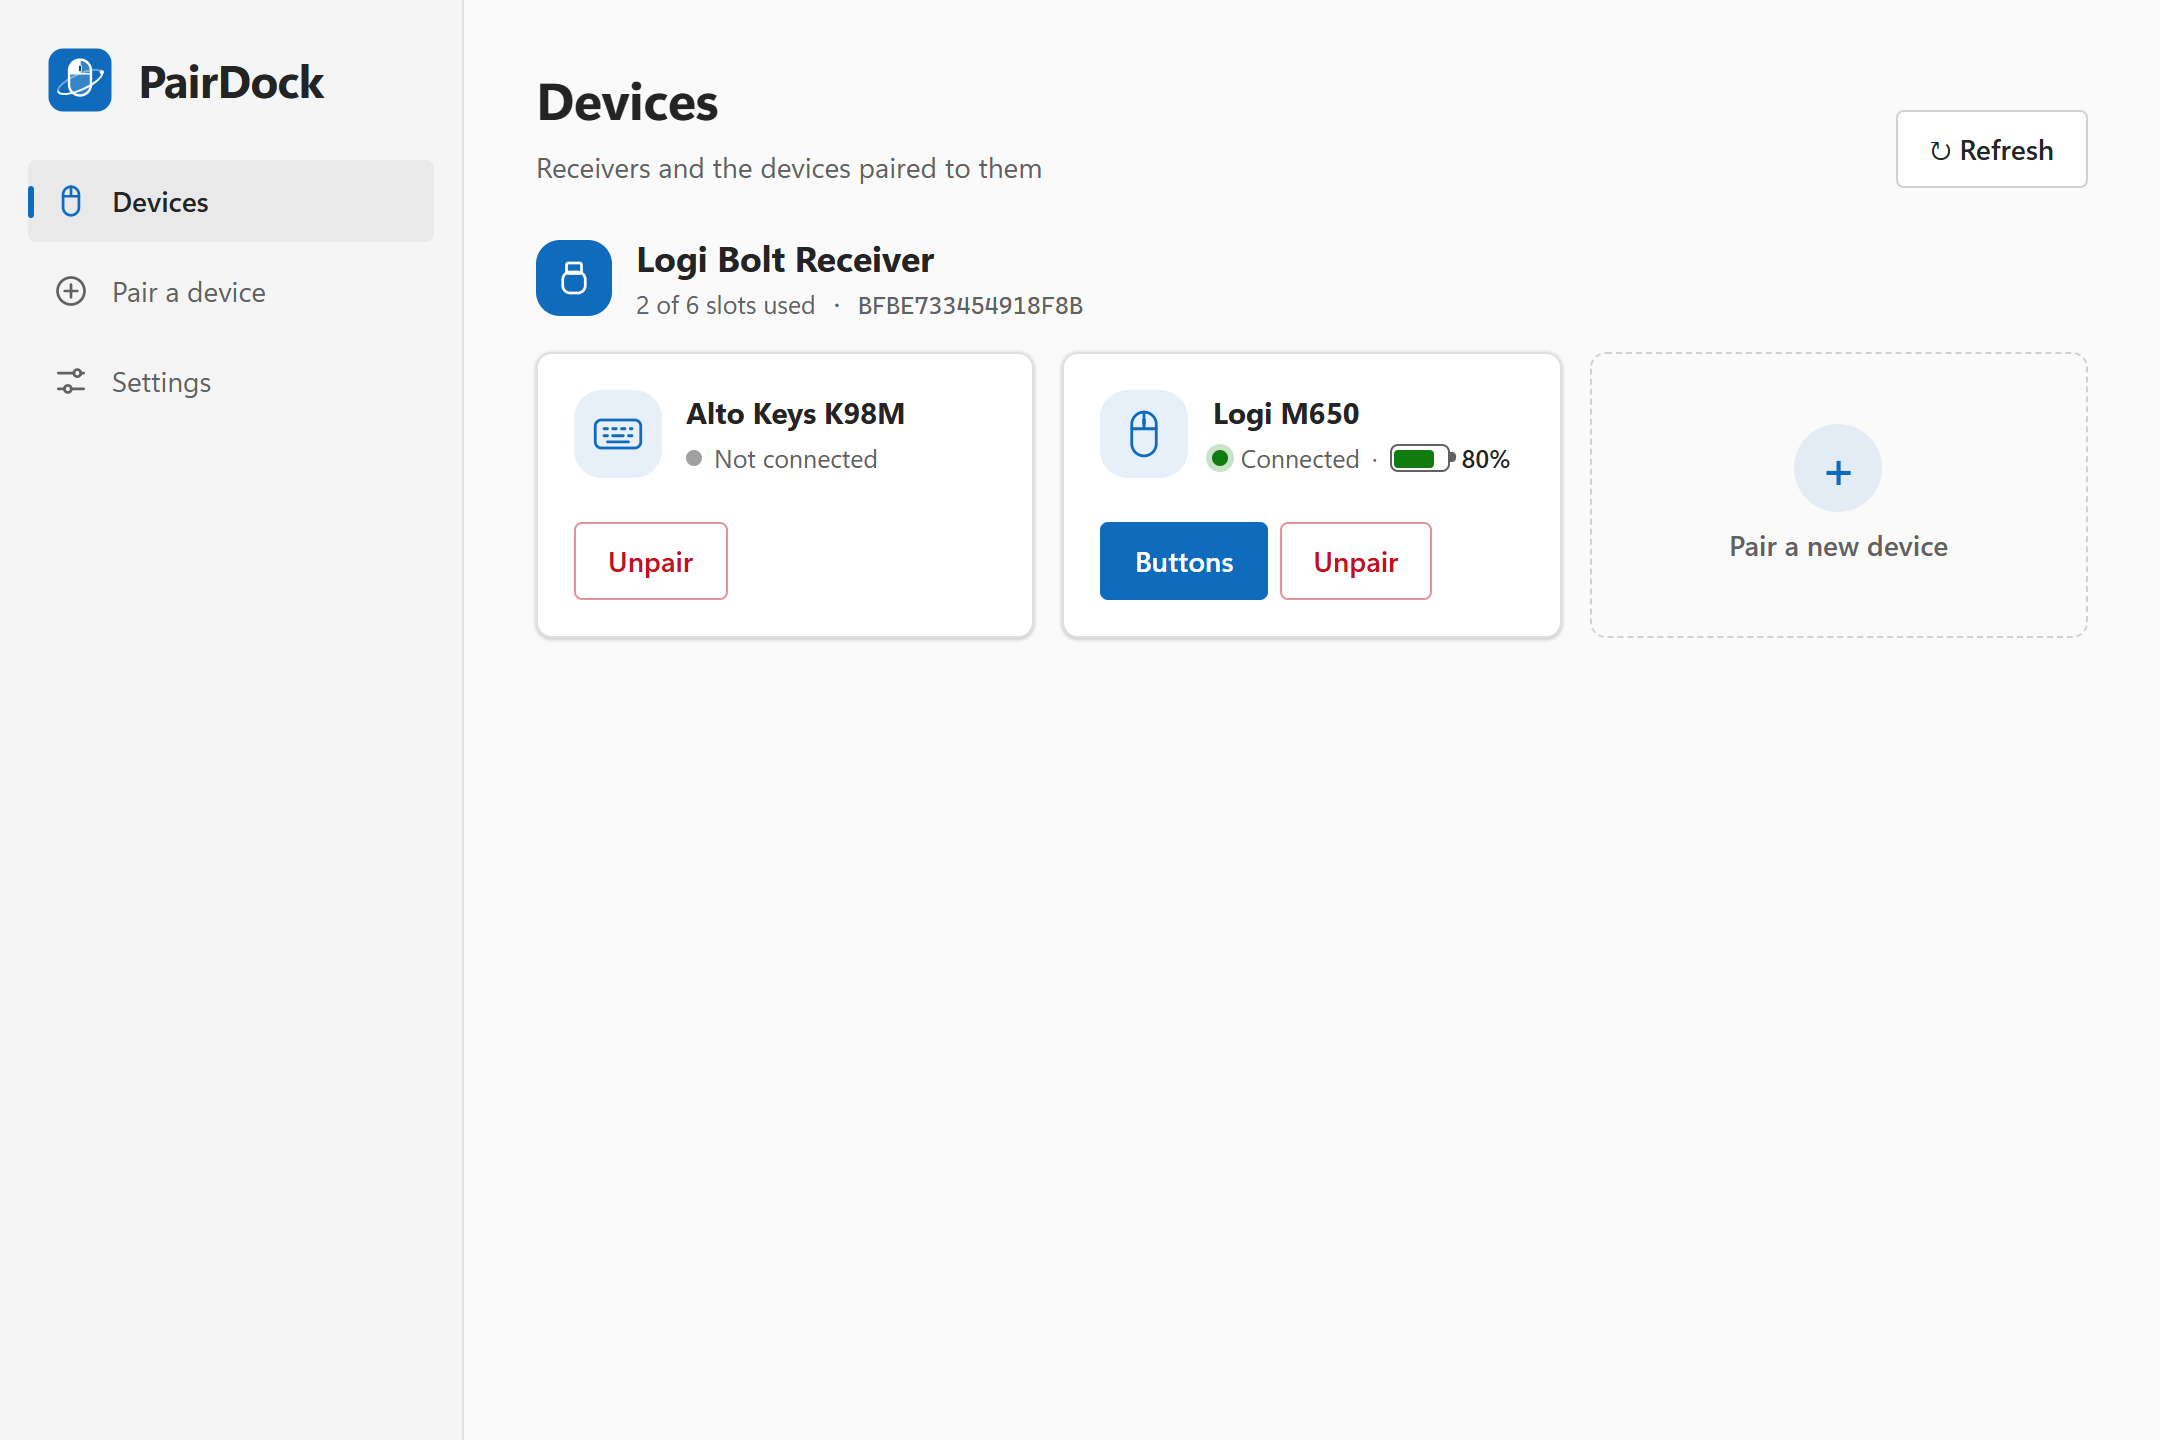
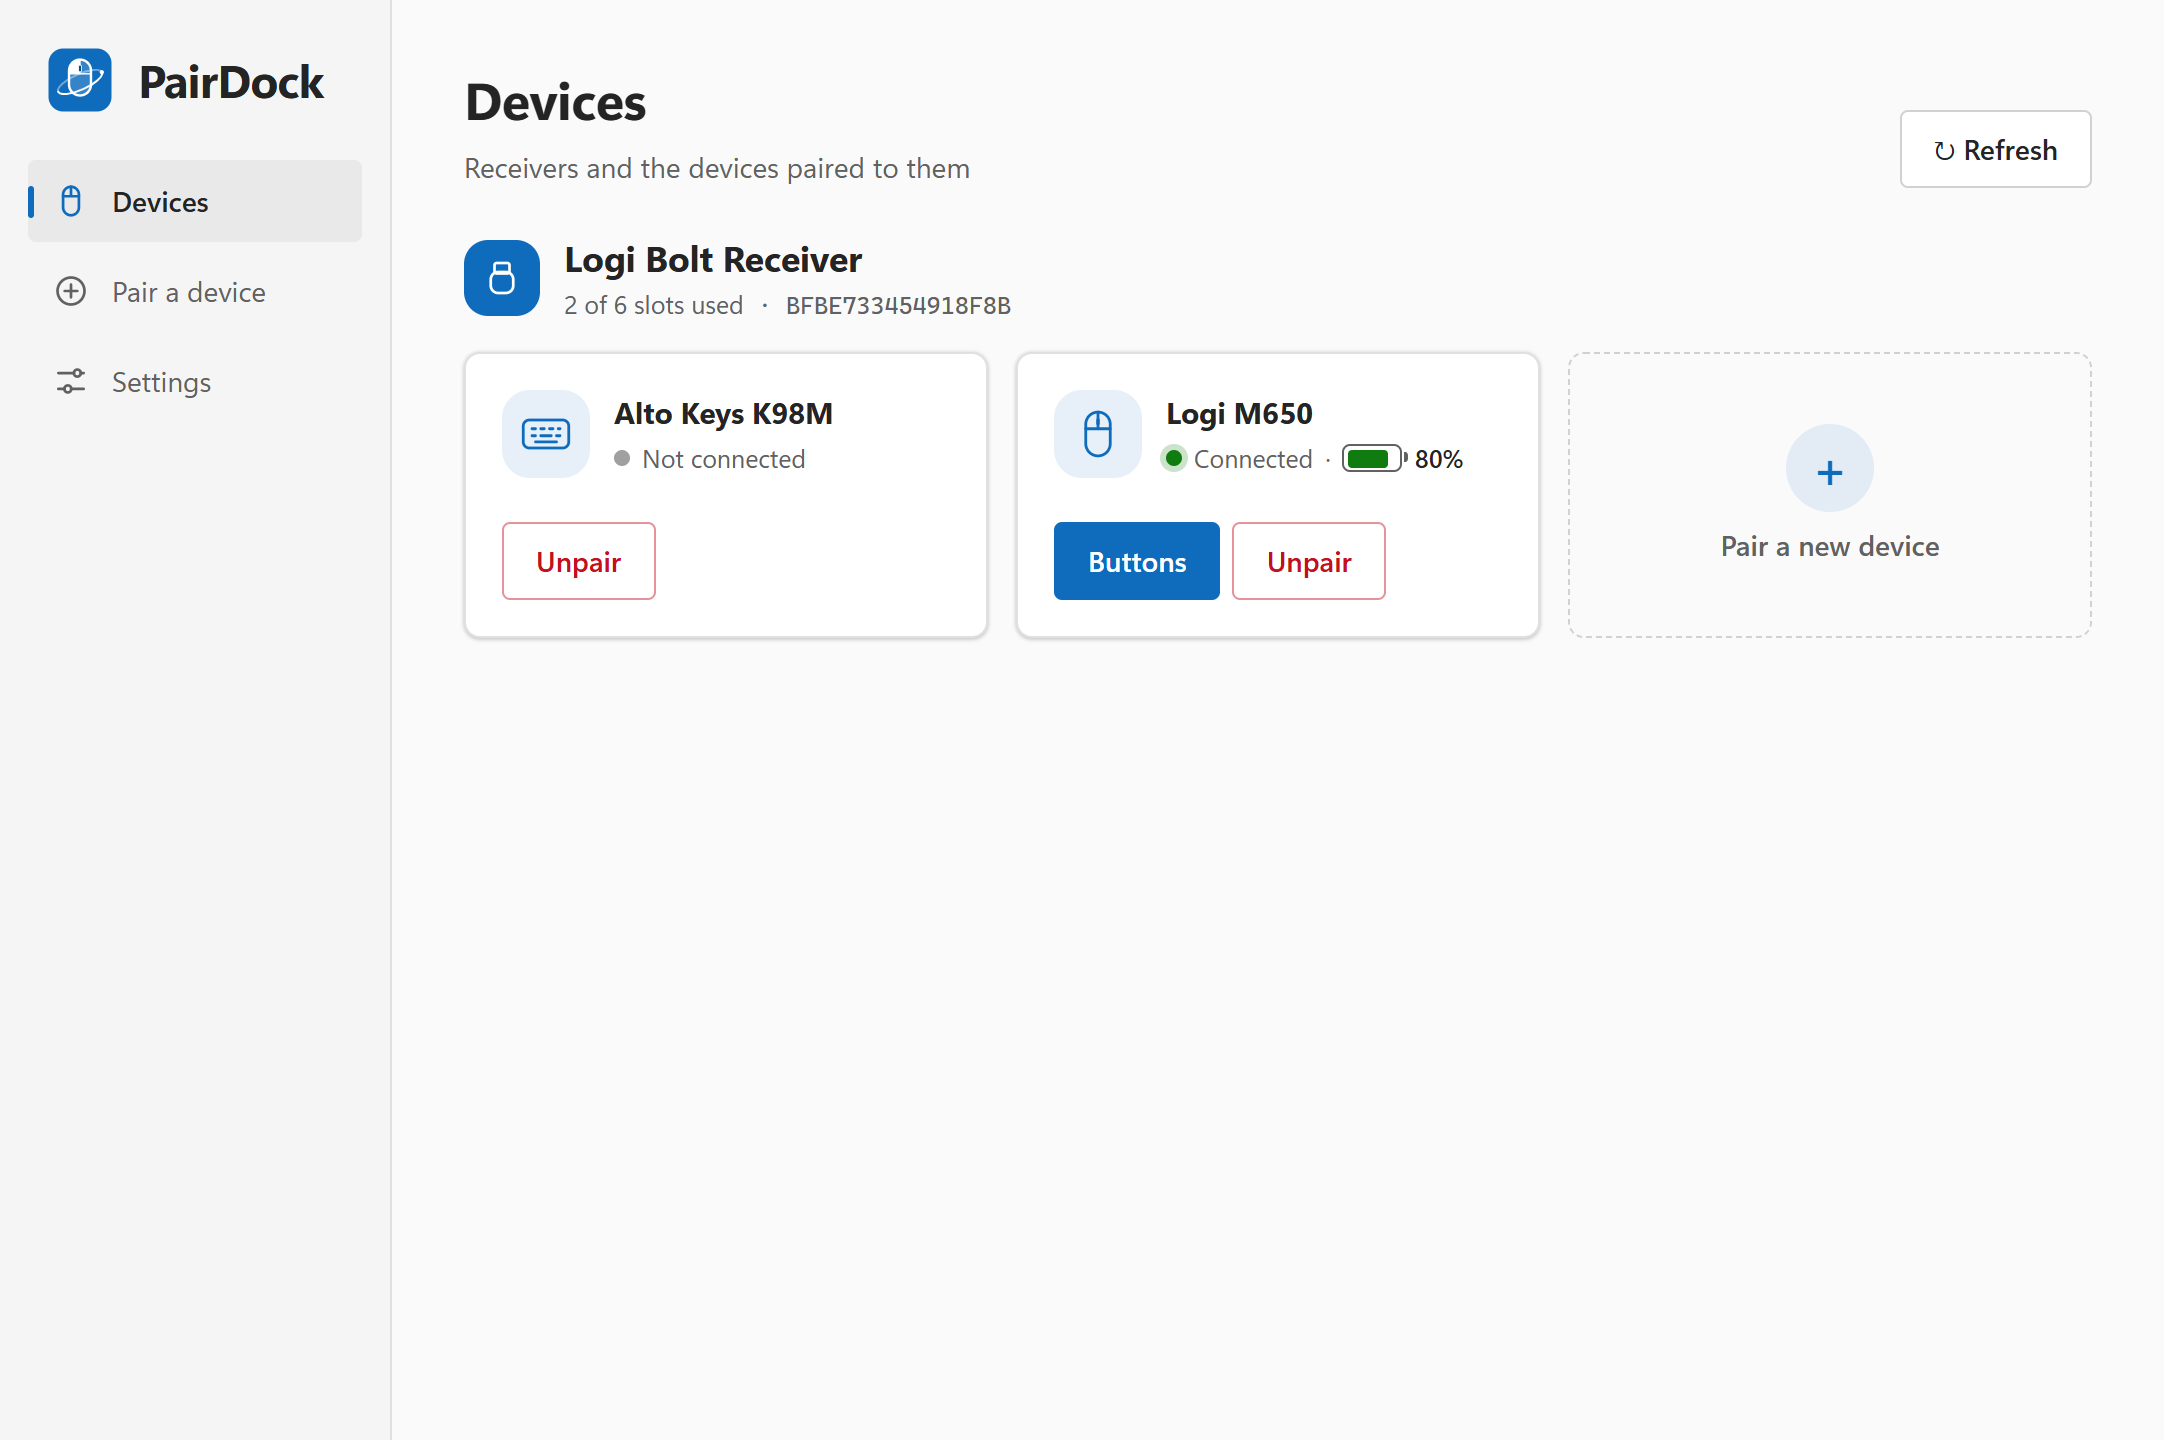
Release 0.0.2
- Version 0.0.2 in Cargo.toml, package.json and the lock files.
- Retake the documentation screenshots in the current layout and add one
  of PairDock on macOS.
- Document Launch at startup on macOS (tested: the LaunchAgent starts
  PairDock in the menu bar) and list the CLI's send command and the
  smoke test in the changelog.

diff --git a/docs/user-guide.zh-CN.md b/docs/user-guide.zh-CN.md
@@ -120,6 +120,8 @@ Bolt 设备需要用一串简短的确认码来完成配对，防止附近的人
 
 在 Mac 上，PairDock 的用法和 Windows 基本相同，区别如下。已在 Intel Mac 的 macOS 15 Sequoia 上测试，尚未测试的部分见[尚未在 macOS 上测试](#尚未在-macos-上测试)。
 
+<img src="images/macos.png" width="720" alt="macOS 上的 PairDock">
+
 ### 安装与首次启动
 
 1. Apple 芯片的 Mac 下载 `PairDock_x.y.z_aarch64.dmg`，Intel 芯片的 Mac 下载 `PairDock_x.y.z_x64.dmg`。打开后把 **PairDock** 拖进"应用程序"。
@@ -128,6 +130,8 @@ Bolt 设备需要用一串简短的确认码来完成配对，防止附近的人
 ### 菜单栏
 
 PairDock 在菜单栏里运行，不出现在程序坞中。点击它的图标（一只带轨道环的鼠标）会弹出菜单：**Open PairDock**（打开窗口）和 **Quit**（退出）。关闭窗口时 PairDock 继续运行；从"应用程序"里再次打开 PairDock 会显示窗口。
+
+**开机自动启动**会添加 `~/Library/LaunchAgents/PairDock.plist`，登录后 PairDock 在菜单栏中启动，不打开窗口。
 
 ### 允许发送快捷键
 
@@ -164,7 +168,6 @@ macOS 只允许拥有**辅助功能**权限的应用发送按键。配对、"改
 ### 尚未在 macOS 上测试
 
 - Apple 芯片的 Mac。
-- **开机自动启动**。
 - 在窗口里安装更新。
 - 配对键盘（Windows 上同样尚未测试）。
 

diff --git a/docs/user-guide.md b/docs/user-guide.md
@@ -151,6 +151,8 @@ The tray menu is in English only for now: **Open PairDock** (opens the window) a
 PairDock works the same way on a Mac, with these differences. It was tested on macOS 15
 Sequoia on an Intel Mac; see [Not tested yet](#not-tested-yet-on-macos).
 
+<img src="images/macos.png" width="720" alt="PairDock on macOS">
+
 ### Installing and the first start
 
 1. Download `PairDock_x.y.z_aarch64.dmg` for a Mac with Apple silicon or
@@ -166,6 +168,9 @@ Sequoia on an Intel Mac; see [Not tested yet](#not-tested-yet-on-macos).
 PairDock lives in the menu bar, not in the Dock. Click its icon (a mouse with an orbit) for the
 menu: **Open PairDock** and **Quit**. Closing the window keeps PairDock running; opening
 PairDock again from Applications shows the window.
+
+**Launch at startup** adds `~/Library/LaunchAgents/PairDock.plist`, which starts PairDock in the
+menu bar, without its window, when you log in.
 
 ### Allowing shortcuts
 
@@ -217,7 +222,6 @@ and remove PairDock from **System Settings → Privacy & Security → Accessibil
 ### Not tested yet on macOS
 
 - Macs with Apple silicon.
-- **Launch at startup**.
 - Installing an update from the window.
 - Pairing a keyboard (not tested on Windows either).
 

diff --git a/CHANGELOG.md b/CHANGELOG.md
@@ -4,7 +4,7 @@ All notable changes to PairDock are listed here. The format follows
 [Keep a Changelog](https://keepachangelog.com/en/1.1.0/), and versions follow
 [Semantic Versioning](https://semver.org/).
 
-## [Unreleased]
+## [0.0.2] - 2026-10-21
 
 ### Added
 
@@ -16,6 +16,8 @@ All notable changes to PairDock are listed here. The format follows
   `Win+Ctrl+Right`; macOS spaces: `Ctrl+Left` / `Ctrl+Right`), switching windows (`Alt+Tab`,
   `Cmd+Tab`), closing the window (`Alt+F4`, `Cmd+W`), the emoji panel (`Win+Period`,
   `Ctrl+Cmd+Space`), the app's windows on macOS (`Ctrl+Down`) and the previous track.
+- `pairdock-cli send <shortcut>` sends a shortcut the way a mapped button does, and
+  `scripts/smoke-shortcuts.ps1` checks what every Windows preset does.
 
 ### Changed
 

diff --git a/README.zh-CN.md b/README.zh-CN.md
@@ -75,6 +75,10 @@ Logi Options+ 是一个庞大的套件，带着后台服务、自动更新、账
 
 macOS 用户请下载 `PairDock_x.y.z_aarch64.dmg`（Apple 芯片）或 `PairDock_x.y.z_x64.dmg`（Intel），打开后把 PairDock 拖进"应用程序"。应用暂时没有 Apple Developer ID 签名，首次打开需要点"仍要打开"，发送快捷键还需要"辅助功能"权限，步骤见[操作手册](docs/user-guide.zh-CN.md#macos)。
 
+<p align="center">
+  <img src="docs/images/macos.png" width="640" alt="macOS 上的 PairDock">
+</p>
+
 接下来请看[操作手册](docs/user-guide.zh-CN.md)。
 
 ## 常见问题

diff --git a/README.md b/README.md
@@ -90,6 +90,10 @@ On macOS, download `PairDock_x.y.z_aarch64.dmg` (Apple silicon) or `PairDock_x.y
 Developer ID yet, so the first start needs **Open Anyway**, and sending shortcuts needs the
 Accessibility permission; the [user guide](docs/user-guide.md#macos) walks through both.
 
+<p align="center">
+  <img src="docs/images/macos.png" width="640" alt="PairDock on macOS">
+</p>
+
 Then follow the [user guide](docs/user-guide.md).
 
 ## FAQ
